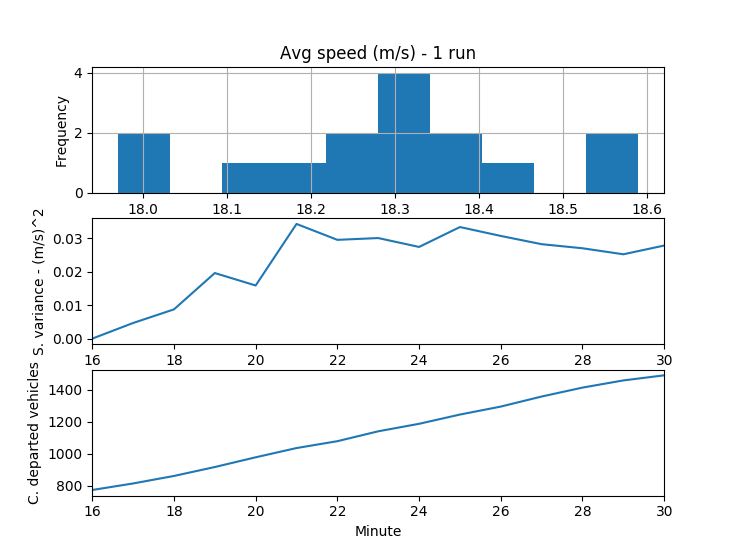
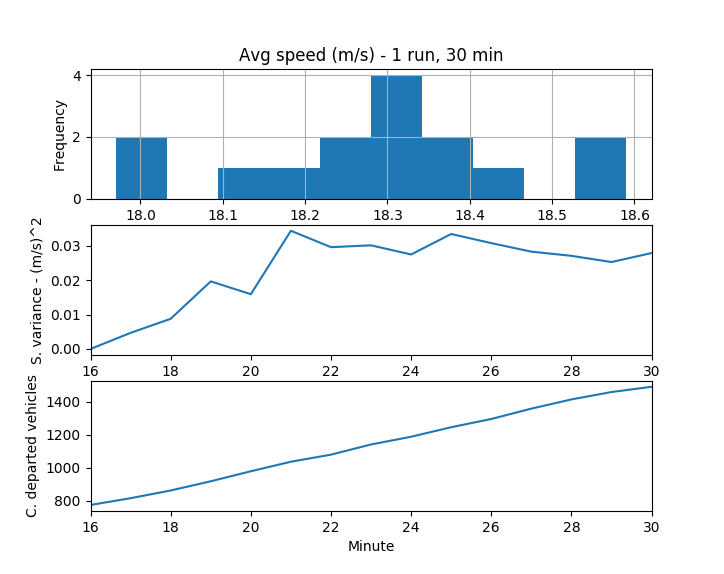
Scenario 1: fix plots

diff --git a/scenario1/plot.py b/scenario1/plot.py
@@ -19,7 +19,7 @@ print("Mean speed: {} m/s".format(df['mean_speed'].mean()))
 fig, (p1,p2,p3) = plt.subplots(3,1,sharex=False, sharey=False)
 
 df['mean_speed'].hist(ax=p1)
-p1.set_title("Avg speed (m/s) - 1 run")
+p1.set_title("Avg speed (m/s) - {} runs".format(len(df)))
 p1.set_xlabel("Speed - m/s")
 p1.set_ylabel("Frequency")
 
@@ -28,10 +28,10 @@ p1.set_ylabel("Frequency")
 #p2.set_ylabel("Variance - (m/s)^2")
 
 df['cum_variance2'].plot(ax=p2, use_index=True)
-p2.set_xlabel("Minute")
+p2.set_xlabel("Simulation")
 p2.set_ylabel("Variance - (m/s)^2")
 
 df['departed'].plot(ax=p3, use_index=True)
-p3.set_xlabel("Minute")
+p3.set_xlabel("Simulation")
 p3.set_ylabel("Departed vehicles")
 plt.show()

diff --git a/scenario1/plot_intra_sim.py b/scenario1/plot_intra_sim.py
@@ -19,7 +19,7 @@ print("Mean speed: {} m/s".format(df['mean_speed'].mean()))
 fig, (p1,p2,p3) = plt.subplots(3,1,sharex=False, sharey=False)
 
 df['mean_speed'].hist(ax=p1)
-p1.set_title("Avg speed (m/s) - 1 run")
+p1.set_title("Avg speed (m/s) - 1 run, {} min".format(len(df) + 15))
 p1.set_xlabel("Speed - m/s")
 p1.set_ylabel("Frequency")
 

diff --git a/scenario1/sumo.py b/scenario1/sumo.py
@@ -90,5 +90,5 @@ df = pd.DataFrame({
     'departed': all_departed
     }, index=np.arange(1, number_runs + 1).tolist())
 
-filename = "{}runs-{}mins.csv".format(number_runs, int(last_simulation_step / 600))
+filename = "{}runs.csv".format(number_runs)
 df.to_csv(filename)
